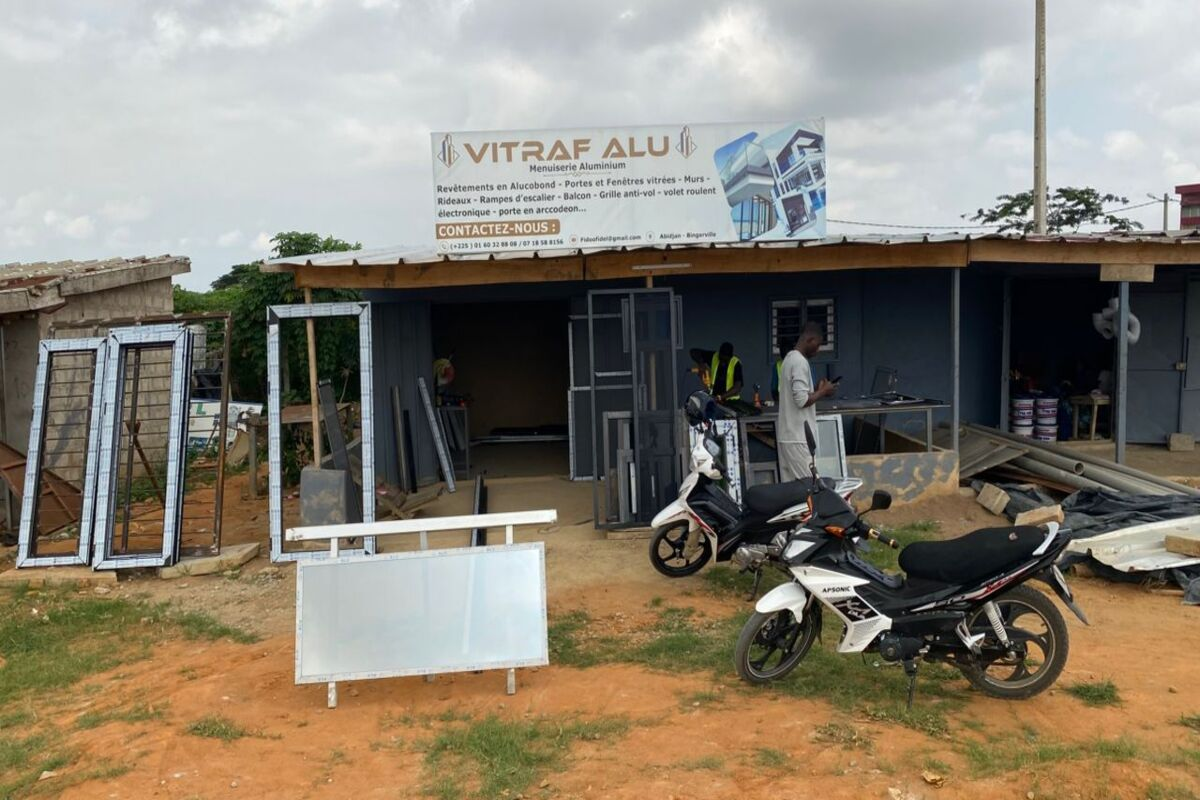
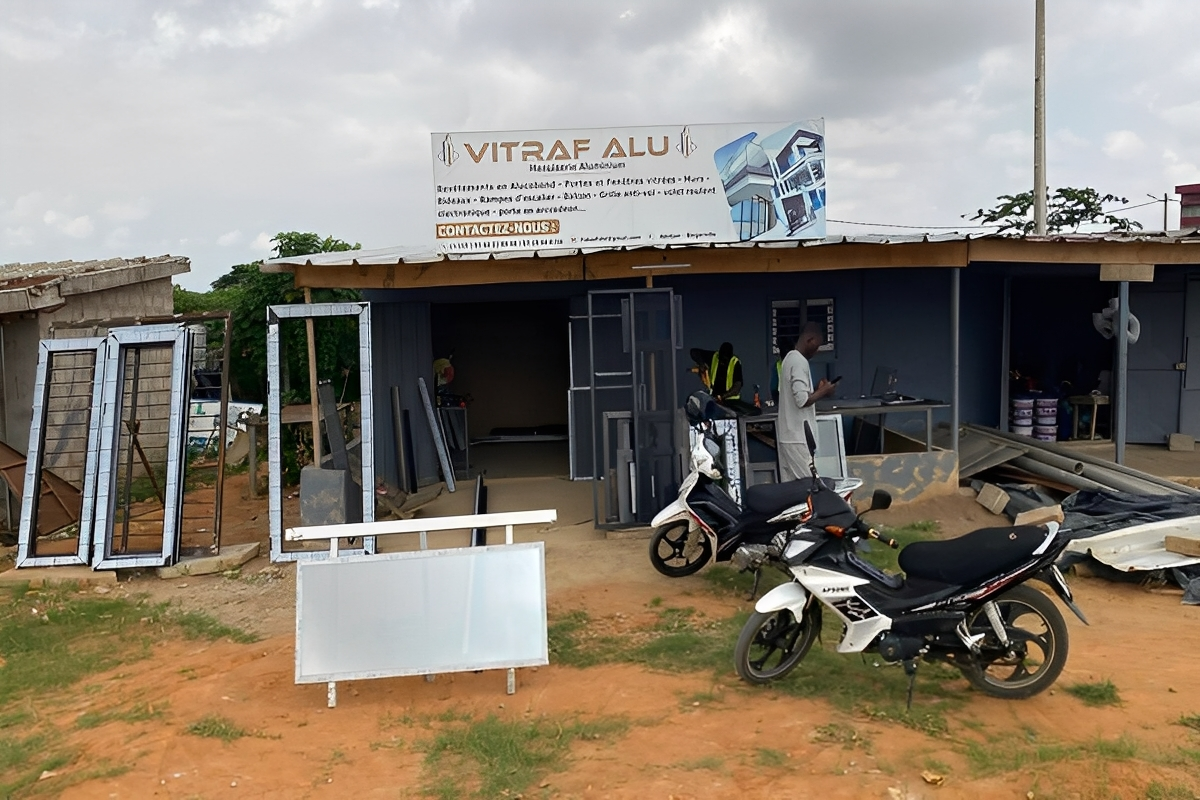
merci, une partie de l'image d'accueil est cahé sous le header

diff --git a/src/app/page.tsx b/src/app/page.tsx
@@ -13,7 +13,7 @@ export default async function Home() {
   return (
     <div className="flex flex-col min-h-[100dvh]">
       <main className="flex-1">
-        <section id="hero" className="relative h-[80vh] w-full">
+        <section id="hero" className="relative h-[calc(80vh_-_4rem)] mt-16 w-full">
           <Image
             src="/images/carou.jpg"
             alt="Chantier de menuiserie aluminium"
